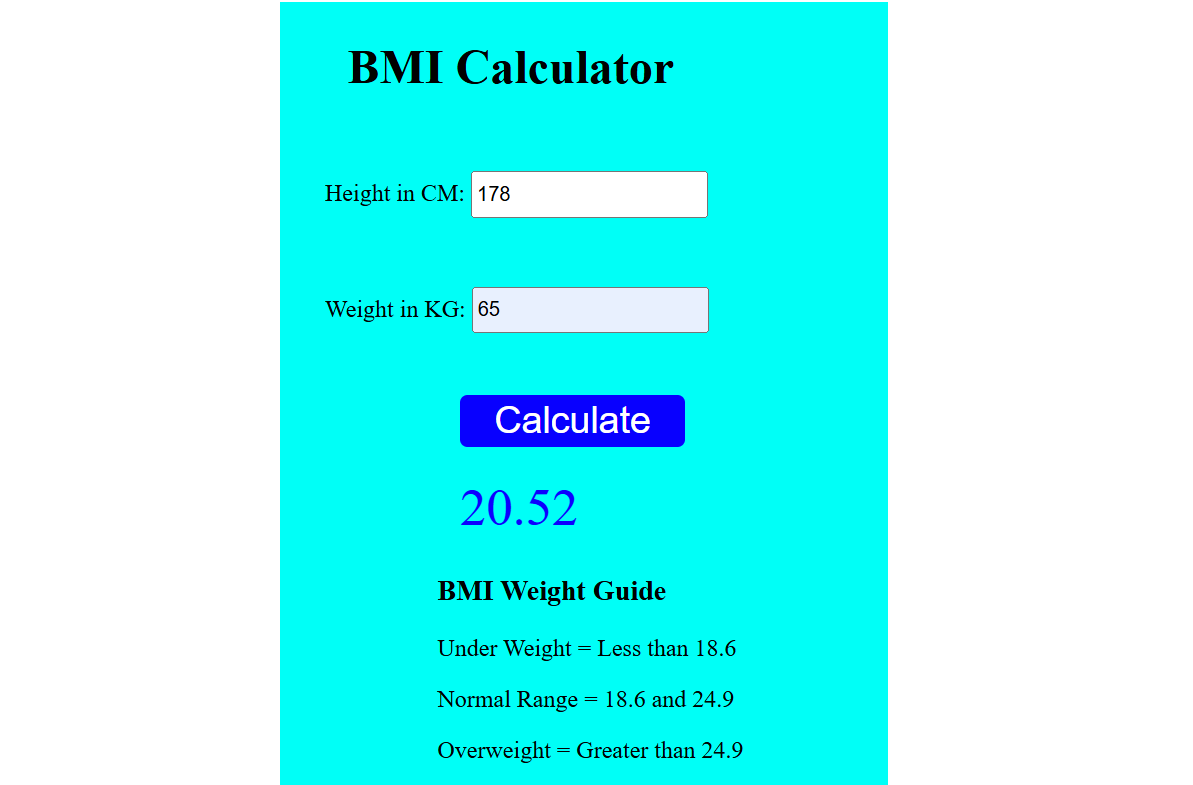
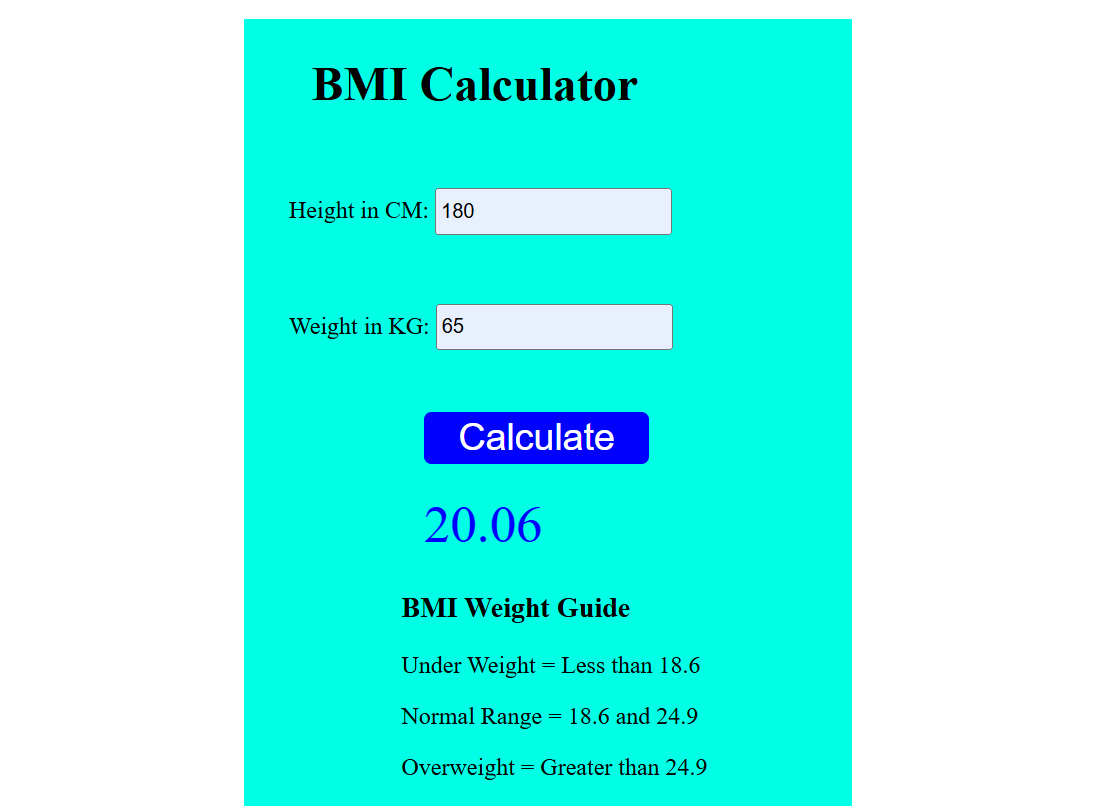
updated

diff --git a/BMI Calculator project/style.css b/BMI Calculator project/style.css
@@ -3,7 +3,7 @@
     height: 525px;
     margin-left: 450px;
     margin-top: 65px;
-    background-color: rgb(0, 255, 247);
+    background-color: rgb(0, 255, 229);
     padding-left: 30px;
 }
 #height, #weight {
@@ -21,7 +21,7 @@
     font-size: 35px;
     margin-left: 90px;
     margin-top: 20px;
-    color: rgb(13, 0, 255);
+    color: blue;
 }
 
 button{
@@ -31,7 +31,7 @@ button{
     margin-top: 25px;
     border-radius: 5px;
     border-style: none;
-    background-color: rgb(8, 0, 255);
+    background-color: blue;
     color: #fff;
     font-size: 25px;
 }

diff --git a/BMI Calculator project/index.html b/BMI Calculator project/index.html
@@ -17,9 +17,9 @@
     <div id="results"></div>
     <div id="weight-guide">
     <h3>BMI Weight Guide</h3>
-    <p>Under Weight : Less than 18.6</p>
-    <p>Normal Range : 18.6 and 24.9</p>
-    <p>Overweight : Greater than 24.9</p>
+    <p>Under Weight = Less than 18.6</p>
+    <p>Normal Range = 18.6 and 24.9</p>
+    <p>Overweight = Greater than 24.9</p>
     </div>
     </form>
     </div>

diff --git a/BMI Calculator project/script.js b/BMI Calculator project/script.js
@@ -24,5 +24,3 @@ form.addEventListener('submit', function(e){
 });
 
 
-
-
